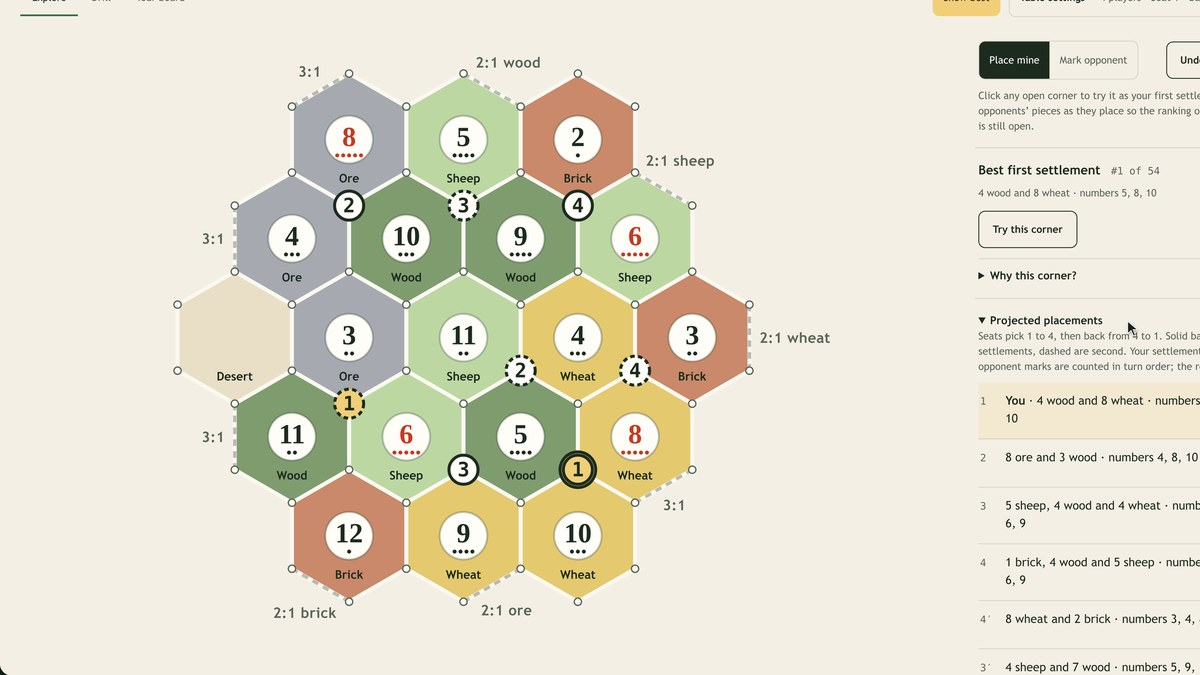
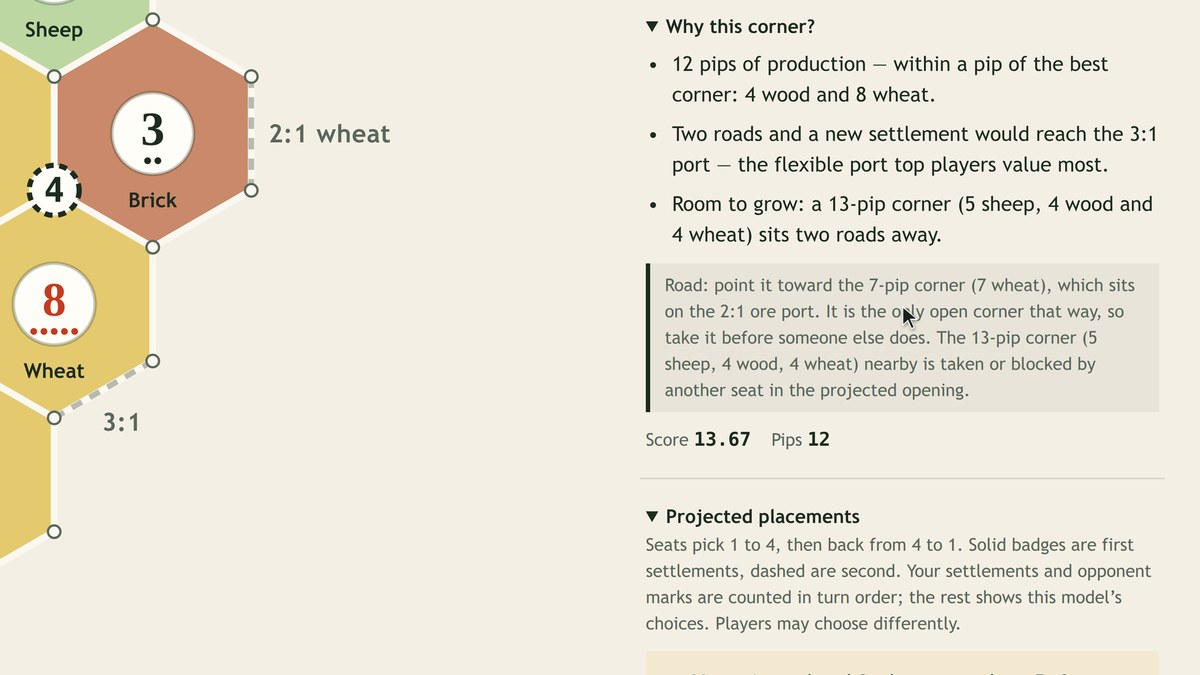
Clarify road projections, preserve blind practice, and refresh walkthrough
Keep recommendation scores and directions unchanged while naming projected setup conflicts and targets used by an own second settlement. Hide future road text with the map hints. Refresh the locally generated walkthrough and matching captions and illustrations. Avoid transient source-selection errors in help media and clear recovered warnings. Verified 100 unit/server checks, eight walkthroughs, 71 existing Chromium interactions, focused road and media checks across all three engines, 720 unchanged road/ranking comparisons, finished-file media QA, and Firefox/WebKit playback with seeking and captions.

diff --git a/public/score.js b/public/score.js
@@ -301,11 +301,12 @@ export function suggestRoad(board, settings, vid, { mine = [], occupied = [] } =
   const facts = boardFacts(board);
   const taken = new Set([...occupied, vid]);
   const mineAfter = mine.includes(vid) ? mine : [...mine, vid];
-  // A target the other seats will take (or block) before your next turn is not worth aiming at: play the
+  // A target the other seats take (or block) in the projected opening is not worth aiming at: play the
   // rest of the opening draft forward and keep only corners that survive it. Over the same 400 simulated openings
   // (bench/catanatron/road_deadends.py) the first road ended in a dead end after setup 52% of the time without this
   // filter and 22% with it. If nothing survives, fall back to what is open now.
-  const projected = simulateDraft(board, settings, { me: mineAfter, opp: occupied.filter(x => !mineAfter.includes(x)) }).filter(d => !d.you && !d.actual).map(d => d.id);
+  const projection = simulateDraft(board, settings, { me: mineAfter, opp: occupied.filter(x => !mineAfter.includes(x)) });
+  const projected = projection.filter(d => !d.you && !d.actual).map(d => d.id);
   const now = new Set(legalVertices(g, [...taken]));
   const safe = new Set(legalVertices(g, [...taken, ...projected]));
   const reachable = set => v.neighbors.some(n => !taken.has(n) && g.vertices[n].neighbors.some(nn => nn !== vid && set.has(nn)));
@@ -327,11 +328,12 @@ export function suggestRoad(board, settings, vid, { mine = [], occupied = [] } =
   const t = pick.target;
   const port = portsAt(board, t.id)[0];
   const describeCorner = c => `${c.pips}-pip corner (${Object.entries(c.prod).map(([r, p]) => `${p} ${NAMES[r].toLowerCase()}`).join(', ') || 'no production'})`;
-  // Say why a better-looking corner within reach was skipped: it will probably be gone by your next turn.
+  // Explain the projected placements behind a skipped corner and a target used for the own second pick.
   const twoAway = new Set(v.neighbors.filter(n => !taken.has(n)).flatMap(n => g.vertices[n].neighbors).filter(nn => nn !== vid));
   const lost = contested ? null : [...twoAway].filter(x => now.has(x) && !safe.has(x))
     .map(x => scoreVertex(board, settings, x, { mine: mineAfter, occupied: [...taken], facts, maxPips })).filter(x => x.score > t.score)
     .sort((a, b) => b.score - a.score || a.id - b.id)[0];
-  const text = `Road: point it toward the ${describeCorner(t)}${port !== undefined ? `, which sits on the ${port === '3:1' ? '3:1' : '2:1 ' + NAMES[port].toLowerCase()} port` : ''}. ${contested ? 'Every direction is contested: the other seats are likely to take or block it before your next turn.' : pick.options > 1 ? `${pick.options} open corners lie that way, so the direction stays flexible.` : 'It is the only open corner that way, so take it before someone else does.'}${lost ? ` The ${describeCorner(lost)} nearby is likely to be taken or blocked before your next turn.` : ''}`;
+  const ownSecond = projection.find(d => d.you && d.round === 2 && !d.actual);
+  const text = `Road: point it toward the ${describeCorner(t)}${port !== undefined ? `, which sits on the ${port === '3:1' ? '3:1' : '2:1 ' + NAMES[port].toLowerCase()} port` : ''}. ${contested ? 'Every direction is contested in the projected opening: the other seats take or block the two-road targets.' : pick.options > 1 ? `${pick.options} open corners lie that way, so the direction stays flexible.` : 'It is the only open corner that way, so take it before someone else does.'}${lost ? ` The ${describeCorner(lost)} nearby is taken or blocked by another seat in the projected opening.` : ''}${ownSecond?.id === t.id ? ' The opening projection also uses this target for your second settlement, so it would already be occupied when setup ends.' : ''}`;
   return { edge, via: pick.via, target: { id: t.id, score: t.score, pips: t.pips, prod: t.prod, numbers: t.numbers }, options: pick.options, text };
 }

diff --git a/public/how-it-works.html b/public/how-it-works.html
@@ -100,11 +100,13 @@
     <tr><td>Harbours</td><td>When included, 3:1 helps anyone; 2:1 helps most when you produce plenty of that resource. A harbour type you already own adds no duplicate bonus. A nearby harbour needs two roads and a new settlement before use.</td></tr>
     <tr><td>Room to grow</td><td>A strong open corner two roads away is worth something; a dead end is not.</td></tr>
     <tr><td>Second settlement</td><td>Credit for covering what the first one lacks, especially wheat and ore.</td></tr>
-    <tr><td>Starting road</td><td>Point it at the best corner two roads away that the other seats are not likely to take before your next turn.</td></tr>
+    <tr><td>Starting road</td><td>Prefer a direction with a useful two-road destination; the card explains conflicts in the projected setup.</td></tr>
   </table>
   <p>Every rule traces to a published source. The source table, the exact weights and what was left out are in
   <a href="https://github.com/buffbeefalo/catan-lens/blob/main/docs/RESEARCH.md">RESEARCH.md</a>; the full explanation is in
   <a href="https://github.com/buffbeefalo/catan-lens/blob/main/docs/HOW-IT-WORKS.md">HOW-IT-WORKS.md</a>.</p>
+
+  <p><b>Projected placements</b> shows this model's choices for each unmarked turn. People may choose differently. Road advice considers the remaining setup; if its target is also your projected second settlement, the card explains that the site would be occupied when setup ends. <b>Show best</b> reveals road hints in the map and verdicts.</p>
 
   <h2>Does following it win games?</h2>
   <p id="policy-version-note">The current version avoids rewarding a harbour type you already own. Its comparison is separate from the earlier scoring policy's results below; no weights were tuned on these outcomes.</p>
@@ -158,13 +160,17 @@
     load();
   }
   for (const video of document.querySelectorAll('[data-video]')) {
+    const status = document.querySelector(`[data-video-status="${video.dataset.video}"]`);
     const failed = () => {
-      document.querySelector(`[data-video-status="${video.dataset.video}"]`).hidden = false;
+      status.hidden = false;
       document.querySelector(`[data-transcript="${video.dataset.video}"]`).closest('details').open = true;
     };
     video.addEventListener('error', failed);
     video.querySelector('source').addEventListener('error', failed);
-    if (video.error || video.networkState === HTMLMediaElement.NETWORK_NO_SOURCE) failed();
+    video.addEventListener('loadeddata', () => { status.hidden = true; });
+    const check = () => { if (video.error || video.networkState === HTMLMediaElement.NETWORK_NO_SOURCE) failed(); };
+    if (document.readyState === 'loading') document.addEventListener('DOMContentLoaded', check, { once: true });
+    else check();
   }
   const showResults = (id, data) => {
     if (!data?.arms?.length) throw new Error('Missing benchmark data');

diff --git a/test/score.test.js b/test/score.test.js
@@ -397,7 +397,7 @@ test('starting road points along an edge of the settlement toward the best legal
   }
 });
 
-test('starting road avoids a corner the other seats are projected to take before your next turn (R13)', () => {
+test('starting road avoids a corner the other seats take in the projected opening (R13)', () => {
   const b = generateBoard({ seed: 1 });   // seat 1's best corner is 43; the old road aimed at 33, seat 2's projected first pick
   const r = suggestRoad(b, S(), 43);
   const projected = simulateDraft(b, S(), { me: [43] }).filter(d => !d.you && !d.actual).map(d => d.id);
@@ -405,7 +405,29 @@ test('starting road avoids a corner the other seats are projected to take before
   assert.ok(!legalVertices(b.graph, [43, ...projected]).includes(33));
   assert.notEqual(r.target.id, 33);
   assert.ok(legalVertices(b.graph, [43, ...projected]).includes(r.target.id), 'the new target survives the projected draft');
-  assert.match(r.text, /The \d+-pip corner .* is likely to be taken or blocked before your next turn/, 'the card says why the road skips the better-looking corner');
+  assert.match(r.text, /The \d+-pip corner .* is taken or blocked by another seat in the projected opening/, 'the card identifies the projection behind the skipped corner');
+  assert.doesNotMatch(r.text, /before your next turn|likely|probably/);
+});
+
+test('a starting-road explanation identifies a target used by the projected own second settlement', () => {
+  const b = generateBoard({ seed: 10 }), settings = S({ players: 3, seat: 2 });
+  const draft = simulateDraft(b, settings, { me: [44], opp: [24] });
+  assert.equal(draft.find(d => d.you && d.round === 2).id, 46);
+  const r = suggestRoad(b, settings, 44, { occupied: [24] });
+  assert.equal(r.edge, 57);
+  assert.equal(r.target.id, 46);
+  assert.match(r.text, /also uses this target for your second settlement/);
+  assert.match(r.text, /occupied when setup ends/);
+  const other = suggestRoad(generateBoard({ seed: 1 }), S(), 43);
+  assert.doesNotMatch(other.text, /also uses this target for your second settlement/);
+});
+
+test('the last seat gets projected setup guidance without a false intervening-turn claim', () => {
+  const b = generateBoard({ seed: 1 });
+  const r = suggestRoad(b, S({ players: 4, seat: 4 }), 2, { occupied: [43, 33, 41] });
+  assert.equal(r.target.id, 8);
+  assert.match(r.text, /in the projected opening/);
+  assert.doesNotMatch(r.text, /before your next turn|likely|probably/);
 });
 
 test('starting road for the last pick of the draft is unchanged: nobody places after it (R13)', () => {

diff --git a/public/app.js b/public/app.js
@@ -276,7 +276,7 @@ function drawMarks() {
 }
 // R13 starting road for a settlement, against the pieces on the board right now.
 const roadHint = id => suggestRoad(analysisBoard, settings(), id, { mine: state.me, occupied: [...state.me, ...state.opp] });
-const roadLine = id => { const r = roadHint(id); return `<p class="sub road">${esc(r ? r.text : 'No road makes progress from here: every corner two roads away is already taken.')}</p>`; };
+const roadLine = id => { if (!reveal()) return ''; const r = roadHint(id); return `<p class="sub road">${esc(r ? r.text : 'No road makes progress from here: every corner two roads away is already taken.')}</p>`; };
 // Can a click on the board do anything right now?
 const canPlace = () => !state.linkError && (state.tool ? false : state.mode === 'opp' ? !state.drill : entry.ready && state.me.length < 2 && !state.drillSetup && !(state.drill && state.answered !== null));
 const house = (x, y) => `M${x - 0.2},${y + 0.18} L${x - 0.2},${y - 0.05} L${x},${y - 0.24} L${x + 0.2},${y - 0.05} L${x + 0.2},${y + 0.18} Z`;
@@ -668,7 +668,7 @@ function render() {
   if (reveal() && draft.length) {
     const canPick = d => !d.actual && state.mode === 'me' && stage !== 'done' && !(state.drill && state.answered !== null);
     out += html`<div class="card"><details class="draft-details" data-disclosure="draft"><summary>Projected placements</summary>
-      <p class="sub">Seats pick 1 to ${state.players}, then back from ${state.players} to 1. Solid badges are first settlements, dashed are second. Your settlements and any opponent marks are counted in turn order; the rest is projected.</p>
+      <p class="sub">Seats pick 1 to ${state.players}, then back from ${state.players} to 1. Solid badges are first settlements, dashed are second. Your settlements and opponent marks are counted in turn order; the rest shows this model’s choices. Players may choose differently.</p>
       <ol class="rank draft">${draft.map(d => `<li data-id="${canPick(d) ? d.id : ''}" class="${d.you ? 'you' : ''}${canPick(d) ? '' : ' fixed'}" aria-current="${state.pick === d.id}" >${canPick(d) ? '<button class="draft-choice">' : ''}<span class="n">${d.seat}${d.round === 2 ? '′' : ''}</span><span>${d.you ? '<b>You</b> · ' : ''}${esc(cornerDesc(d.id))}</span><span class="s">${d.actual ? 'placed' : d.score.toFixed(2)}</span>${canPick(d) ? '</button>' : ''}</li>`).join('')}</ol></details></div>`;
   }
 

diff --git a/video/readme_media.py b/video/readme_media.py
@@ -18,7 +18,7 @@ OUT = os.path.join(HERE, "..", "docs", "media")
 SHOTS = [
     ("hero.jpg", "overview", "#svg + #panel", "first"),
     ("feature-why.jpg", "overview", ".best-card .why", None),
-    ("feature-draft.jpg", "walkthrough", "#svg", "The draft"),
+    ("feature-draft.jpg", "walkthrough", ".best-card .road", "The draft"),
     ("feature-drill.jpg", "walkthrough", ".card.drill", None),
     ("feature-board.jpg", "walkthrough", "#svg + #panel", "Your board"),
 ]

diff --git a/video/README.md b/video/README.md
@@ -59,6 +59,8 @@ Run the timeline check after recording to catch cropped content before spending 
 README feature images follow named camera targets and chapters in that timeline, so changed narration
 lengths cannot silently select a different feature at an old timestamp. They wait for screen transitions
 to finish, avoiding double text in a still image taken during a cross-fade.
+The draft passage frames the actual road explanation, including the projection behind a skipped target.
+Readability checks measure text on the camera target itself as well as its children.
 
 For fully local narration and checking, pass existing model directories with `--model` and `--asr`, and set
 `HF_HUB_OFFLINE=1 TRANSFORMERS_OFFLINE=1`. A cached snapshot can be passed directly even if its model-name
@@ -69,12 +71,12 @@ still receive only four takes, are recorded for inspection and make narration ex
 assembly also refuses unchecked narration. The recorder normalises British/American spellings like
 harbour/harbor consistently with the speech checker when matching a camera cue to spoken words.
 
-The 2026-10-09 refresh is 71.3 seconds for the overview and 195.6 seconds for the walkthrough, both
+The 2026-10-09 refresh is 71.3 seconds for the overview and 195.2 seconds for the walkthrough, both
 1080p at 60 fps. Finished-file checks passed format, streaming index, loudness, narration timing,
 picture fidelity and all 21/52 caption cues. The recogniser matched 173/173 overview words and
-477/478 walkthrough words; its one difference was spelling the brand "Katan" instead of "Catan".
-The script and captions retain the correct name. These checks do not establish natural-sounding speech
-or playback on every device.
+472/472 walkthrough words. The revised draft passage describes the model's opening choices and
+explains that a road destination is not guaranteed to remain available. These checks do not establish
+natural-sounding speech or playback on every device.
 
 The later owned-harbour correction was reviewed against these demonstrations: the seed-42 first/second
 choices, second ranking and both suggested roads are unchanged. The results card remains the dated

diff --git a/docs/ARCHITECTURE.md b/docs/ARCHITECTURE.md
@@ -114,6 +114,12 @@ copy. An absent choice is unavailable, retains the out-of-range rank sentinel, a
 including when the ranking is empty or has fewer entries than the stage target. Valid grades and
 complete-board scores are unchanged by these guards.
 
+Starting-road explanations use the same full opening projection as the target filter. They identify
+opponent conflicts as projected setup choices, and flag a target also assigned to the player's
+unplaced second settlement. This adds no score term or direction preference. `roadLine` shares the
+existing `reveal()` guard with road drawing, so a first-pick verdict cannot expose future road targets
+during blind second-pick practice. Committed-pick grading remains visible.
+
 `setupStage` reports `fitsDifficulty` from its actual top-two margin and the stage's inclusive band.
 It subtracts integer hundredths, matching the score precision so decimal noise cannot exclude a boundary.
 The bounded seed search and the UI use that same result. The notice therefore survives explicit seed
@@ -135,6 +141,9 @@ The help header preserves its return query immediately, without awaiting a modul
 video-fallback and benchmark handlers initialize separately from the theme module, so a delayed or
 failed theme download cannot strand the return link or leave that content uninitialized. The help
 theme control stays inert until its handler is installed.
+Video/source error events reveal the matching transcript. The initial retrospective media check waits
+until parsing completes, since `NETWORK_NO_SOURCE` can precede source selection in a healthy video.
+`loadeddata` clears an obsolete failure notice without collapsing a transcript the user may be reading.
 
 Keyboard or assistive activation of Your board focuses its first tool; activating a tool focuses the
 first editable hex or coast edge. These transitions use the button click's zero `detail`; pointer

diff --git a/README.md b/README.md
@@ -41,11 +41,11 @@ and explains the best spot in plain sentences. Free, open source, and it runs en
 <table>
 <tr>
 <td width="50%"><img src="docs/media/feature-why.jpg" alt="The Why this corner? card listing production, the harbour and room to grow"></td>
-<td width="50%"><img src="docs/media/feature-draft.jpg" alt="Projected placements: numbered badges on the board for every seat's likely picks"></td>
+<td width="50%"><img src="docs/media/feature-draft.jpg" alt="Starting-road advice explains a destination and a nearby corner blocked in the projected opening"></td>
 </tr>
 <tr>
 <td><b>The best corner, explained.</b> Random boards follow the official setup (3–4 players, or the 5–6 player board). A gold ring marks the best open corner; <i>Why this corner?</i> gives the reasons in plain sentences. Click any other corner for a grade and an explanation of the tradeoffs behind its score.</td>
-<td><b>Plays out the draft.</b> Mark opponents as they place and the ranking only counts what is still open. <i>Projected placements</i> plays the snake draft for every seat, and the suggested starting road avoids corners others are likely to take first.</td>
+<td><b>Plays out the draft.</b> Mark opponents as they place and the ranking only counts what is still open. <i>Projected placements</i> shows the model's snake-draft choices; starting-road advice explains conflicts and destinations those choices would occupy.</td>
 </tr>
 <tr>
 <td><img src="docs/media/feature-drill.jpg" alt="Drill mode: level cleared, with a track of sixteen levels"></td>

diff --git a/e2e/README.md b/e2e/README.md
@@ -40,12 +40,17 @@ suite. Set `CATAN_URL` to test another deployment instead; set `CHROMIUM_PATH` t
   keep that explanation hidden before a blind-practice commitment.
   Media fallback checks simulate network errors, unsuccessful HTTP responses and empty transcripts,
   then retry successfully with keyboard focus retained. Video errors open the corresponding transcript.
+  A tiny generated WAV exercises real media source selection and failed/recovered downloads in the
+  video elements without requiring release MP4 assets or optional codecs. Healthy media keeps its
+  warning hidden; recovery clears a warning while preserving an already-open transcript.
   Startup checks fail the app or a dependency download, preserve the board link through help, then
   reload successfully. They also retain the Drill return board and cover the JavaScript-off guide.
   Short-screen editing checks expand guidance, open the number picker, change a token and return by
   keyboard, verifying visible focus on both board sizes in phone and landscape layouts.
   Help checks hold or fail the theme download while preserving valid/unreadable return links and
   loading transcripts and benchmark figures independently.
+  Blind-practice checks retain committed-pick grades while hiding future road targets in earlier
+  verdicts as well as on the map, then restore both through Show best.
 
 Each walkthrough ends with an `... OK, zero page errors` line. Some write drill progress to the browser's
 localStorage; every run starts from a fresh browser context.

diff --git a/docs/HOW-IT-WORKS.md b/docs/HOW-IT-WORKS.md
@@ -132,11 +132,15 @@ stays dominant.
   score cannot look like a 100% tie or cross the 90% grade boundary through display rounding.
 - **Opponents.** Switch to "Mark opponent" and click where others placed; the ranking only counts what is
   still open.
-- **Projected placements.** Placement is a snake draft (seats 1 to N, then N back to 1). The app plays
-  that draft out with the same rules for every seat, so you can see what is likely to be gone before your
-  turn comes back.
+- **Projected placements.** Placement is a snake draft (seats 1 to N, then N back to 1). The app fills
+  unmarked turns with its own highest-ranked legal choice for each seat. Actual players can choose
+  differently; this is an opening scenario, not a prediction of a particular opponent.
 - **Starting road.** For each settlement the app suggests which way to point the free road: toward the
-  best open corner two roads away, preferring a direction with more than one option.
+  best open corner two roads away, preferring a direction with more than one option. It considers the
+  other seats' remaining setup placements, including turns after your second settlement. The card
+  names projected conflicts and warns when its target is also your own projected second settlement:
+  following that opening would occupy the site during setup. With **Show best** off, road hints stay
+  hidden in both the map and earlier verdicts until you reveal them; committed-pick grades remain available.
 
 ### What your opening can produce and build
 
